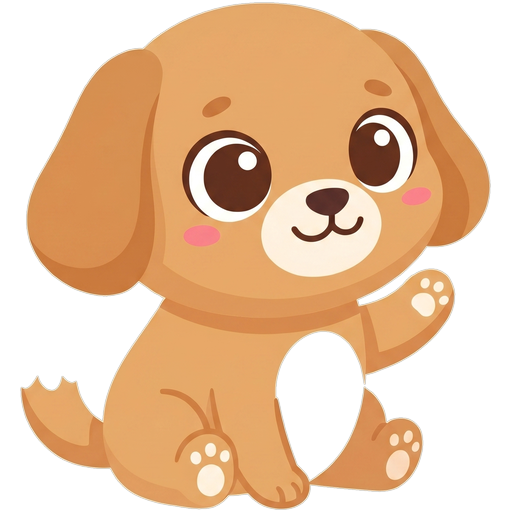
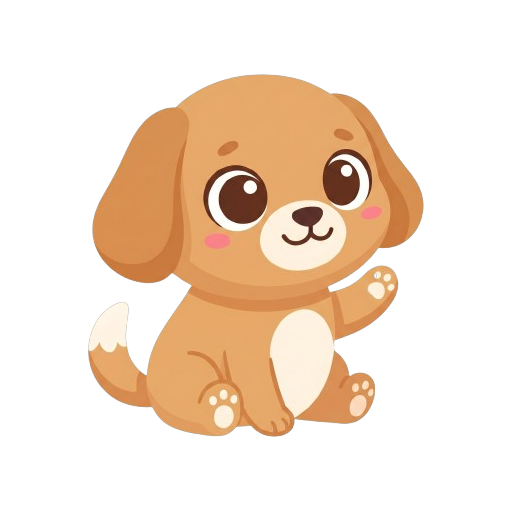
feat(art): switch sprite pipeline to remove.bg + magenta chroma-key
Sprite background removal is now handled either upstream (remove.bg
on the locked masters → art/style-bible/transparent/) or by Gemini
itself generating with a magenta #ff00ff chroma-key background that
optimize_art.py keys out trivially.

Changes:
- art/style-bible/transparent/ — 9 pre-transparent sprite sources
  (cow/bird/cat/dog/duck/elephant/sheep + mascot-fox + vehicle-car)
  via remove.bg. These are the new canonical sprite sources.
- optimize_art.py — reads sprites from transparent/, auto-detects
  whether a source is already-transparent (skip keying) or magenta-
  backgrounded (chroma-key magenta with a simple threshold). Cream
  chroma-key + flood-fill paths removed; both had edge-case failures
  on cream-coloured character interiors. ~30 lines simpler.
- master-prompt.md / assets.json / art_gen.py — sprite prompts now
  request flat magenta #ff00ff backgrounds. Future Gemini generations
  will need no external tool to clean up.
- assets/images/games/zoo/ — all 7 sprite bundles re-rendered from
  the transparent sources. Smaller file sizes (40-50% reduction) since
  there's no longer any chroma-keyed semi-alpha fringing.
- Zoo goldens regenerated (sprites are different new-Gemini versions).
- *.iml added to .gitignore (IntelliJ project file).

diff --git a/scripts/optimize_art.py b/scripts/optimize_art.py
@@ -28,7 +28,7 @@ import sys
 from pathlib import Path
 
 try:
-    from PIL import Image, ImageDraw, ImageFilter  # type: ignore
+    from PIL import Image  # type: ignore
 except ImportError:
     sys.stderr.write(
         "Pillow is not installed. Run:\n"
@@ -39,7 +39,13 @@ except ImportError:
 REPO = Path(__file__).resolve().parent.parent
 STYLE_BIBLE = REPO / "art" / "style-bible"
 
-# (source filename, bundle path, kind)
+# Sprites are sourced from `art/style-bible/transparent/` — backgrounds
+# already removed (typically by remove.bg or Gemini-with-magenta-bg).
+# Scenes are sourced directly from `art/style-bible/` since they don't
+# need keying — the watercolor wash IS the intended look.
+SPRITE_SRC = STYLE_BIBLE / "transparent"
+
+# (source filename relative to its kind's source dir, bundle path, kind)
 ASSETS: list[tuple[str, str, str]] = [
     # Zoo sprites
     ("animal_cow.png", "assets/images/games/zoo/animal_cow.png", "sprite"),
@@ -49,88 +55,17 @@ ASSETS: list[tuple[str, str, str]] = [
     ("animal_duck.png", "assets/images/games/zoo/animal_duck.png", "sprite"),
     ("animal_elephant.png", "assets/images/games/zoo/animal_elephant.png", "sprite"),
     ("animal_sheep.png", "assets/images/games/zoo/animal_sheep.png", "sprite"),
-    # Zoo scene
+    # Zoo scene (watercolor, not chroma-keyed)
     ("scene_zoo.png", "assets/images/games/zoo/scene_zoo.png", "scene"),
     # (Slice 6 will add: vehicle-car, scene_drive)
 ]
 
 SPRITE_SIZE = 512
 SCENE_WIDTH = 2048
-# Floodfill threshold — distance between a candidate pixel and its
-# flood-fill seed (corner pixel). Conservative so we never leak into
-# character interiors (sheep wool, duck belly are dangerously close to
-# the background cream). The dilation step below recovers any pixels
-# we wrongly pulled in.
-FLOOD_THRESH = 42
-
-# Magenta marker — placed by floodfill into background regions so we can
-# distinguish them. The character art never contains pure magenta.
-MARKER = (255, 0, 255)
-
-# Pixels to push the opaque mask outward after flood-fill. Recovers any
-# character edge that the flood erroneously caught. Larger = safer but
-# leaves more residual halo.
-ALPHA_DILATE_PX = 2
-
-# Edge feather radius in pixels — softens the alpha boundary so character
-# silhouettes don't look hard-edged against the scene.
-ALPHA_FEATHER = 1.2
-
-
 def crop_border(img: Image.Image, percent: float) -> Image.Image:
     w, h = img.size
     dx, dy = int(w * percent), int(h * percent)
     return img.crop((dx, dy, w - dx, h - dy))
-
-
-def background_to_alpha(img: Image.Image) -> Image.Image:
-    """Remove the background by flood-filling from all four corners.
-
-    The chroma-key approach (any cream-ish pixel → transparent) leaks at
-    sprite-tile edges because of subtle compression and watercolor
-    texture. Worse, it eats into character interiors that happen to be
-    cream-coloured (sheep wool, duck belly).
-
-    Flood-fill solves both: we seed from corners (definitely background)
-    and only mark the *connected* cream region as transparent. Anything
-    cream inside the character is unreachable and stays opaque.
-    """
-    img = img.convert("RGBA")
-    w, h = img.size
-
-    # Work on an RGB copy so floodfill can splash a marker colour without
-    # interfering with the alpha channel.
-    marker_img = img.convert("RGB").copy()
-    for seed in ((0, 0), (w - 1, 0), (0, h - 1), (w - 1, h - 1)):
-        ImageDraw.floodfill(
-            marker_img,
-            xy=seed,
-            value=MARKER,
-            thresh=FLOOD_THRESH,
-        )
-
-    marker_px = marker_img.load()
-    img_px = img.load()
-    if marker_px is None or img_px is None:
-        return img
-
-    for y in range(h):
-        for x in range(w):
-            if marker_px[x, y] == MARKER:
-                r, g, b, _ = img_px[x, y]
-                img_px[x, y] = (r, g, b, 0)
-
-    # Dilate the opaque region a couple of pixels — this recovers any
-    # character edge pixels that the conservative flood-fill happened to
-    # catch (especially on light-cream silhouettes like the sheep's wool
-    # or the duck's belly).
-    a = img.getchannel("A")
-    a = a.filter(ImageFilter.MaxFilter(size=2 * ALPHA_DILATE_PX + 1))
-
-    # Then soft-feather so character edges don't read as hard-cut.
-    a = a.filter(ImageFilter.GaussianBlur(ALPHA_FEATHER))
-    img.putalpha(a)
-    return img
 
 
 def tight_crop(img: Image.Image, padding: int = 4) -> Image.Image:
@@ -156,10 +91,62 @@ def fit_into_square(img: Image.Image, size: int) -> Image.Image:
     return canvas
 
 
+MAGENTA = (255, 0, 255)
+MAGENTA_THRESH = 60
+
+
+def has_meaningful_alpha(img: Image.Image, sample_corners: int = 4) -> bool:
+    """Return True if the corners are already transparent — i.e. the
+    source already has its background removed (came from remove.bg, an
+    older bundle, etc.).
+    """
+    if img.mode != "RGBA":
+        return False
+    w, h = img.size
+    px = img.load()
+    if px is None:
+        return False
+    samples = [px[0, 0], px[w - 1, 0], px[0, h - 1], px[w - 1, h - 1]]
+    transparent = sum(1 for s in samples if s[3] < 128)
+    return transparent >= sample_corners // 2
+
+
+def magenta_to_alpha(img: Image.Image) -> Image.Image:
+    """Chroma-key magenta #ff00ff to transparency. Used when a fresh
+    Gemini sprite arrives with the magenta background specified by the
+    updated master prompt — no flood-fill needed because magenta never
+    appears in our art, so a simple per-pixel threshold is safe and
+    won't bleed into character interiors.
+    """
+    img = img.convert("RGBA")
+    px = img.load()
+    if px is None:
+        return img
+    w, h = img.size
+    mr, mg, mb = MAGENTA
+    for y in range(h):
+        for x in range(w):
+            r, g, b, a = px[x, y]
+            d = abs(r - mr) + abs(g - mg) + abs(b - mb)
+            if d < MAGENTA_THRESH:
+                px[x, y] = (r, g, b, 0)
+    return img
+
+
 def process_sprite(src: Path, dst: Path) -> None:
-    img = Image.open(src)
-    img = crop_border(img, 0.05)
-    img = background_to_alpha(img)
+    """Sprite pipeline. Sources can be in three states; the script
+    auto-detects which and does the right thing:
+
+    1. Pre-transparent (from remove.bg, or an already-bundled asset) →
+       no keying needed, just tight-crop + resize.
+    2. Magenta-backgrounded (fresh Gemini output following the updated
+       master prompt) → chroma-key magenta then tight-crop + resize.
+    3. Anything else → falls through to (2), assumed magenta. Cream
+       backgrounds are no longer supported (deprecated workflow).
+    """
+    img = Image.open(src).convert("RGBA")
+    if not has_meaningful_alpha(img):
+        img = magenta_to_alpha(img)
     img = tight_crop(img)
     img = fit_into_square(img, SPRITE_SIZE)
     dst.parent.mkdir(parents=True, exist_ok=True)
@@ -188,7 +175,8 @@ def main() -> None:
     for src_name, bundle_path, kind in ASSETS:
         if args.asset and args.asset not in src_name:
             continue
-        src = STYLE_BIBLE / src_name
+        src_dir = SPRITE_SRC if kind == "sprite" else STYLE_BIBLE
+        src = src_dir / src_name
         dst = REPO / bundle_path
         if not src.exists():
             print(f"  skip    {src_name:24} (master missing)", file=sys.stderr)

diff --git a/scripts/art_gen.py b/scripts/art_gen.py
@@ -40,26 +40,30 @@ ASSETS_JSON = STYLE_BIBLE / "assets.json"
 # the two in sync; this script reads from the constant for reliability.
 STYLE_FRAGMENT = (
     "Illustration style: chunky kindchenschema cartoon character on a "
-    "flat cream background. The character has an oversized round head, "
-    "big round eyes with a small white catchlight in each eye, a tiny "
-    "rounded snout/nose, and a chunky compact body with short limbs — no "
-    "realistic anatomy. The character has NO outlines and NO black ink "
-    "lines anywhere on its body; form is built from clean flat shapes with "
-    "gentle inner shading. Reference exemplars: Sago Mini, Hey Duggee, "
-    "Toca Boca. Mood: warm, calm, friendly, safe for a 2-year-old. Square "
-    "aspect ratio, 2048x2048, centered subject filling about 70% of the "
-    "frame, generous negative space around the character. No text, no "
-    "decorative lettering, no logos.\n\n"
-    "Background: a single pure flat cream #fff5e6 tone — NO watercolor, "
-    "NO gradient, NO atmospheric wash, NO peach-to-green sky-and-meadow "
-    "blend. The character must appear to float on the flat cream "
-    "background. NO baked-in drop shadow beneath the character (shadows "
-    "are added programmatically in the app).\n\n"
+    "pure flat magenta chroma-key background. The character has an "
+    "oversized round head, big round eyes with a small white catchlight "
+    "in each eye, a tiny rounded snout/nose, and a chunky compact body "
+    "with short limbs — no realistic anatomy. The character has NO "
+    "outlines and NO black ink lines anywhere on its body; form is built "
+    "from clean flat shapes with gentle inner shading. Reference "
+    "exemplars: Sago Mini, Hey Duggee, Toca Boca. Mood: warm, calm, "
+    "friendly, safe for a 2-year-old. Square aspect ratio, 2048x2048, "
+    "centered subject filling about 70% of the frame, generous negative "
+    "space around the character. No text, no decorative lettering, no "
+    "logos.\n\n"
+    "Background: a single pure flat magenta #ff00ff tone (chroma-key "
+    "colour) — NO watercolor, NO gradient, NO atmospheric wash, NO sky "
+    "or meadow. The character must appear isolated on flat magenta so "
+    "the background can be cleanly removed later. NO baked-in drop "
+    "shadow beneath the character (shadows are added programmatically "
+    "in the app).\n\n"
     "AVOID: photorealism, fur texture detail, black outlines, harsh "
     "contrast, realistic proportions, scary or sharp features, fangs, "
     "wide-open mouths, predator stances, pastel-only low contrast, "
     "decorative text, watercolor backdrops, gradient backgrounds, "
-    "atmospheric washes, drop shadows under the character.\n\n"
+    "atmospheric washes, drop shadows under the character, magenta "
+    "anywhere ON the character (it is reserved for the background "
+    "only).\n\n"
     "Style reference: match the kindchenschema cartoon style and palette "
     "of the uploaded mascot-fox.png image so this asset reads as part of "
     "the same family.\n\n"

diff --git a/art/style-bible/master-prompt.md b/art/style-bible/master-prompt.md
@@ -8,31 +8,35 @@ This is the canonical text to paste into Nano Banana (Gemini 2.5 Flash Image, vi
 
 ## 0. Reusable style fragment
 
-Paste this fragment at the **top** of every prompt (master fox included). It locks the rendering style.
+Paste this fragment at the **top** of every **sprite** prompt (master fox + every animal + the vehicle). Scenes/backdrops have a different style — see §6.
+
+The background is now **pure flat magenta #ff00ff** (chroma-key green-screen style). Magenta never appears in our art palette, so post-processing strips the background trivially without risk of eating into character interiors. This replaces the old "flat cream #fff5e6" rule, which collided with the cream pixels inside characters (sheep wool, duck belly).
 
 ```
-Illustration style: chunky kindchenschema cartoon character on a flat
-cream background. The character has an oversized round head, big round
-eyes with a small white catchlight in each eye, a tiny rounded snout/nose,
-and a chunky compact body with short limbs — no realistic anatomy. The
-character has NO outlines and NO black ink lines anywhere on its body;
-form is built from clean flat shapes with gentle inner shading. Reference
-exemplars: Sago Mini, Hey Duggee, Toca Boca. Mood: warm, calm, friendly,
-safe for a 2-year-old. Square aspect ratio, 2048x2048, centered subject
-filling about 70% of the frame, generous negative space around the
-character. No text, no decorative lettering, no logos.
+Illustration style: chunky kindchenschema cartoon character on a pure
+flat magenta chroma-key background. The character has an oversized round
+head, big round eyes with a small white catchlight in each eye, a tiny
+rounded snout/nose, and a chunky compact body with short limbs — no
+realistic anatomy. The character has NO outlines and NO black ink lines
+anywhere on its body; form is built from clean flat shapes with gentle
+inner shading. Reference exemplars: Sago Mini, Hey Duggee, Toca Boca.
+Mood: warm, calm, friendly, safe for a 2-year-old. Square aspect ratio,
+2048x2048, centered subject filling about 70% of the frame, generous
+negative space around the character. No text, no decorative lettering,
+no logos.
 
-Background: a single pure flat cream #fff5e6 tone — NO watercolor, NO
-gradient, NO atmospheric wash, NO peach-to-green sky-and-meadow blend.
-The character must appear to float on the flat cream background. NO
-baked-in drop shadow beneath the character (shadows will be added
-programmatically in the app).
+Background: a single pure flat magenta #ff00ff tone (chroma-key colour)
+— NO watercolor, NO gradient, NO atmospheric wash, NO sky or meadow.
+The character must appear isolated on flat magenta so the background
+can be cleanly removed later. NO baked-in drop shadow beneath the
+character (shadows will be added programmatically in the app).
 
 AVOID: photorealism, fur texture detail, black outlines, harsh contrast,
 realistic proportions, scary or sharp features, fangs, wide-open mouths,
 predator stances, pastel-only low contrast, decorative text, watercolor
 backdrops, gradient backgrounds, atmospheric washes, drop shadows under
-the character.
+the character, magenta anywhere ON the character (it is reserved for
+the background only).
 ```
 
 ---
@@ -57,8 +61,9 @@ Colour:
 - Eyes: deep brown #2a2a2a iris with a single small white catchlight
 - Pupils slightly oversized for cuteness
 
-Background: pure flat cream #fff5e6, no watercolor, no gradient, no
-shadow under the fox.
+Background: pure flat magenta #ff00ff (chroma-key colour), no
+watercolor, no gradient, no shadow under the fox. The fox itself
+contains NO magenta — magenta is reserved for the background only.
 ```
 
 **Iteration tips:**

diff --git a/art/style-bible/README.md b/art/style-bible/README.md
@@ -4,8 +4,9 @@ Source-of-truth art references. **NOT bundled into the shipped app.**
 
 ## What lives here
 
-- `mascot-fox.png` — **the locked master**. Style anchor for everything else. Every generation references this image.
-- `master-prompt.md` — human-readable master prompt + per-asset fragments.
+- `mascot-fox.png`, `animal_*.png`, `vehicle-car.png`, `scene_*.png` — **the locked masters**. These are the raw Gemini outputs. They may still have a background (magenta for sprites following the new prompt, or cream for older sprites). NOT bundled directly.
+- `transparent/` — sprites with backgrounds removed (via [remove.bg](https://www.remove.bg) for the original cream-bg generations, or via Gemini-with-magenta-bg + `optimize_art.py`'s automatic magenta keying for newer ones). This is the canonical source `scripts/optimize_art.py` reads sprites from.
+- `master-prompt.md` — human-readable master prompt + per-asset fragments. **Sprites now request a flat magenta `#ff00ff` chroma-key background** so post-processing is trivial.
 - `palette.md` — hex codes and usage rules (mirror of `lib/core/theme/design_tokens.dart`).
 - `assets.json` — machine-readable manifest read by `scripts/art_gen.py`.
 - `candidates/` — generated variants per asset (`<asset>/v1.png`...`vN.png`). Pick the winner, copy it up to `art/style-bible/<asset>.png`.
